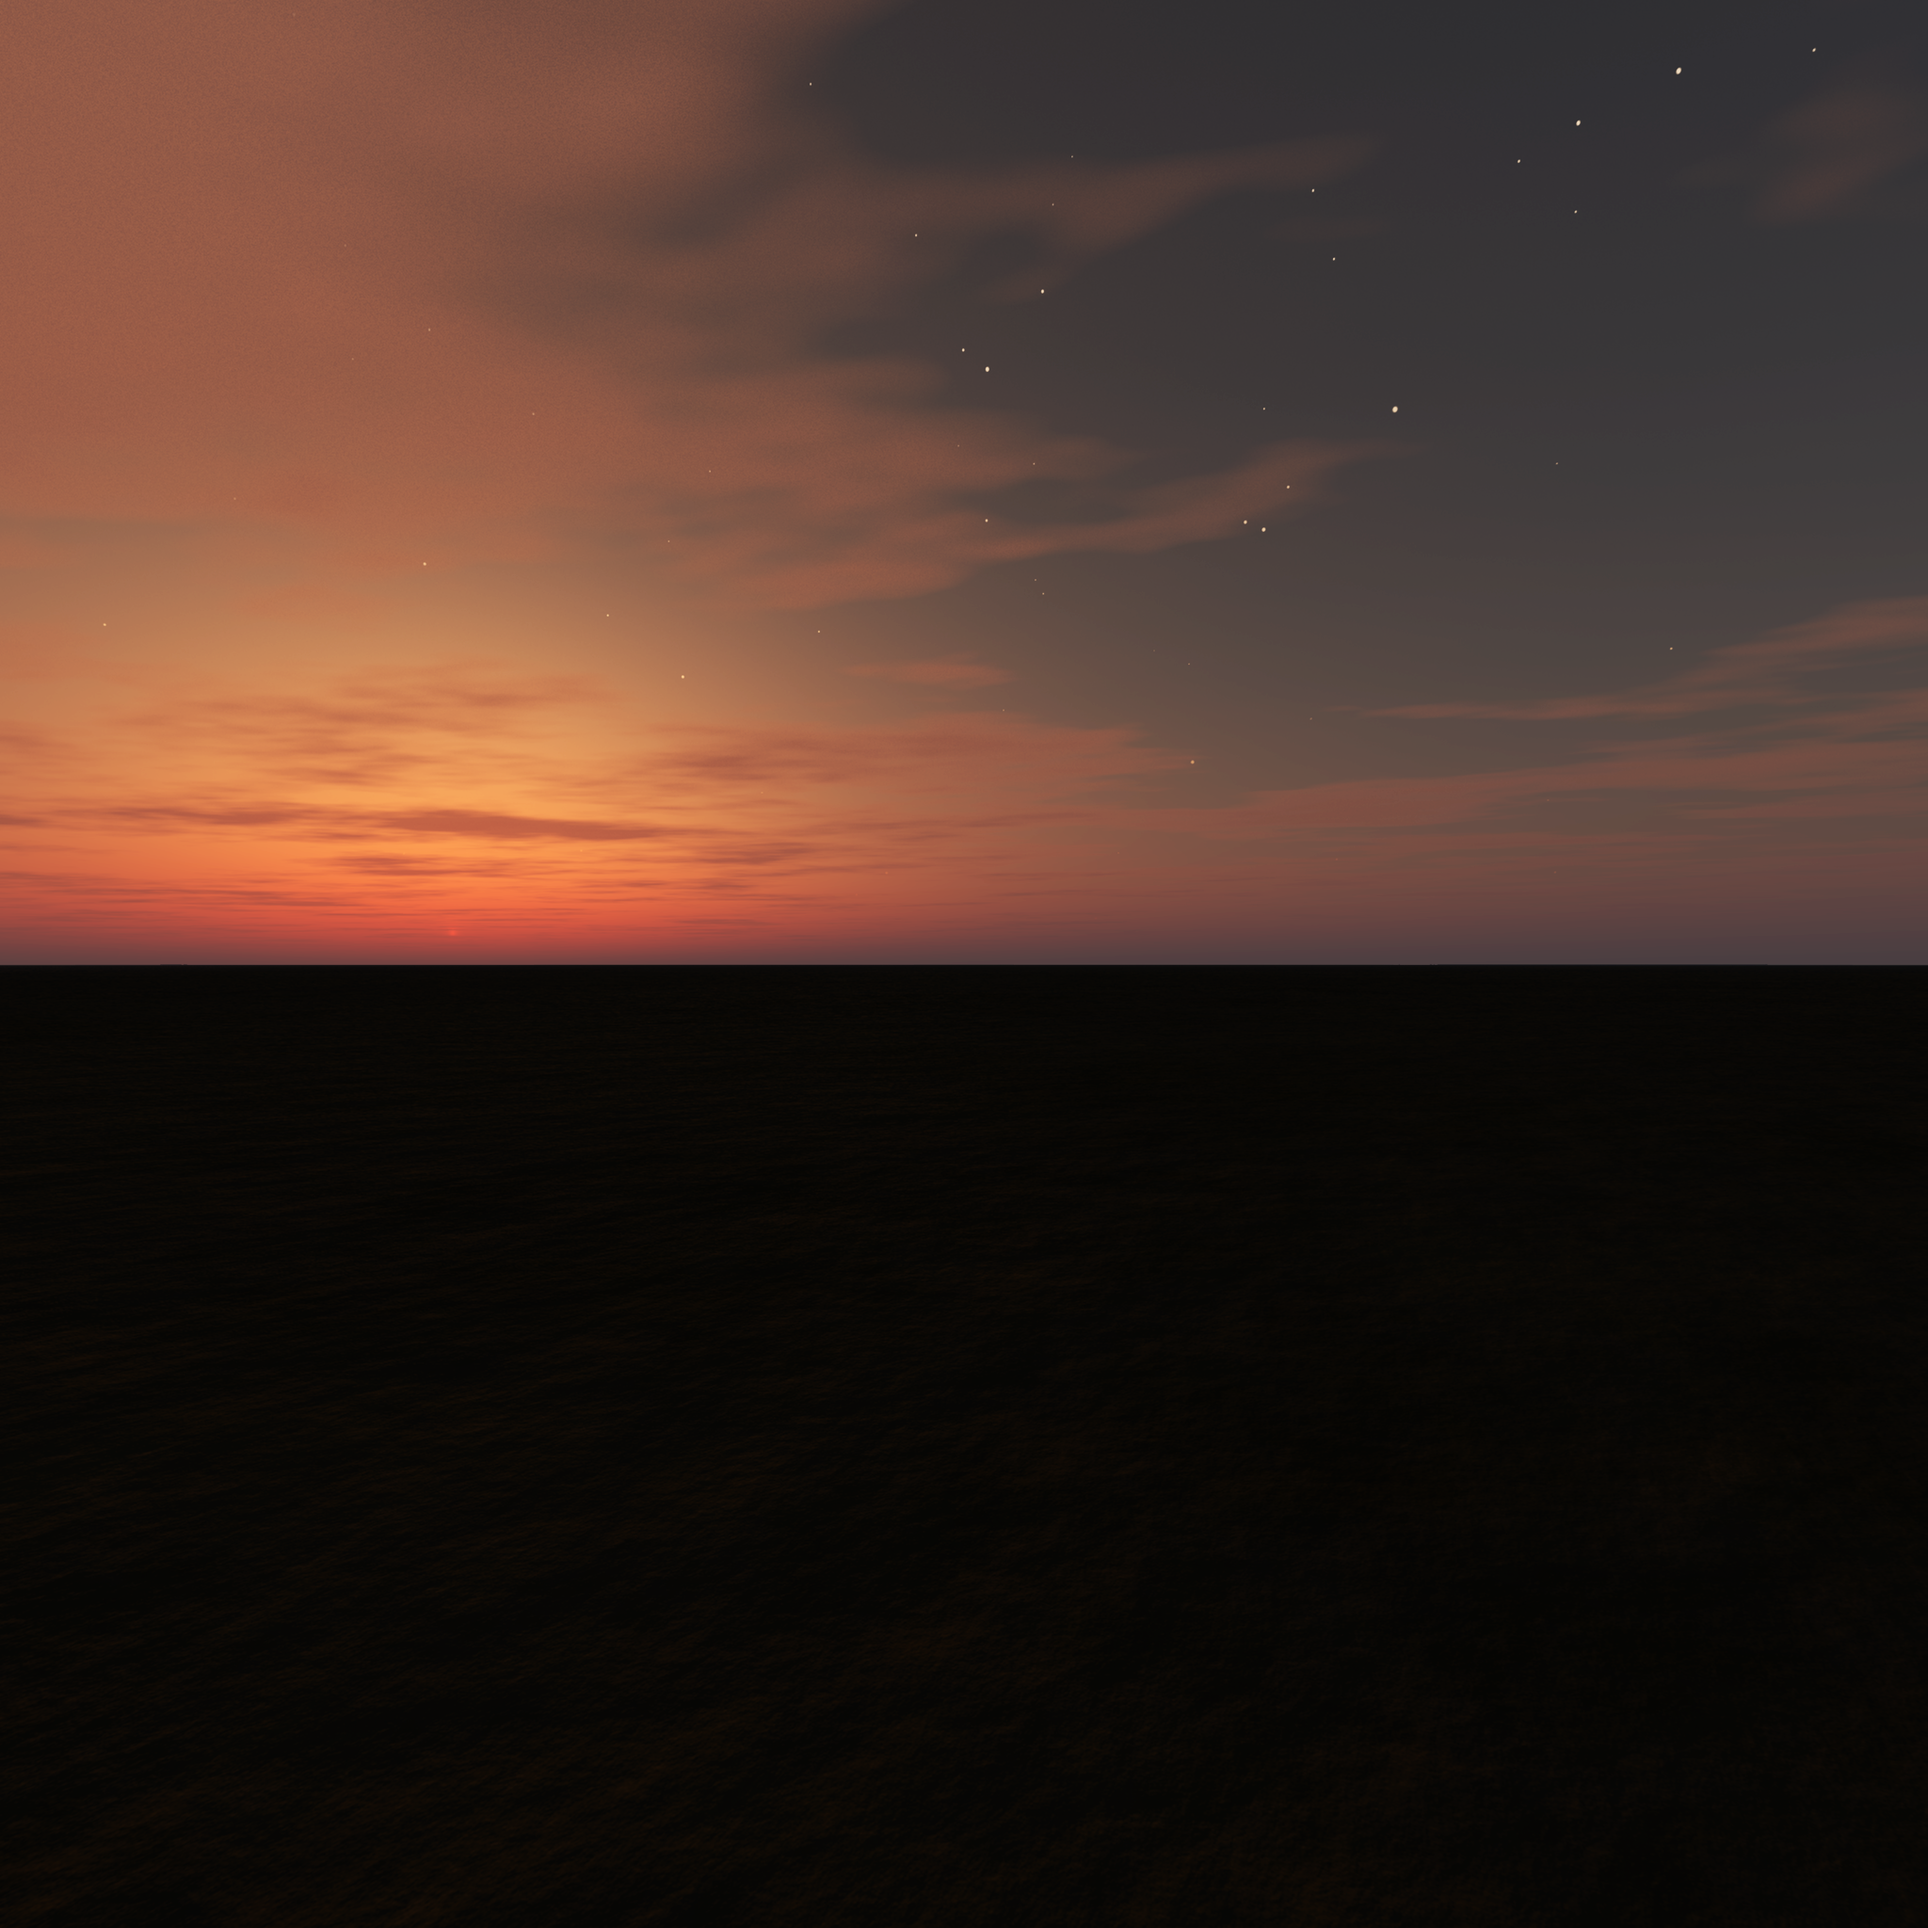
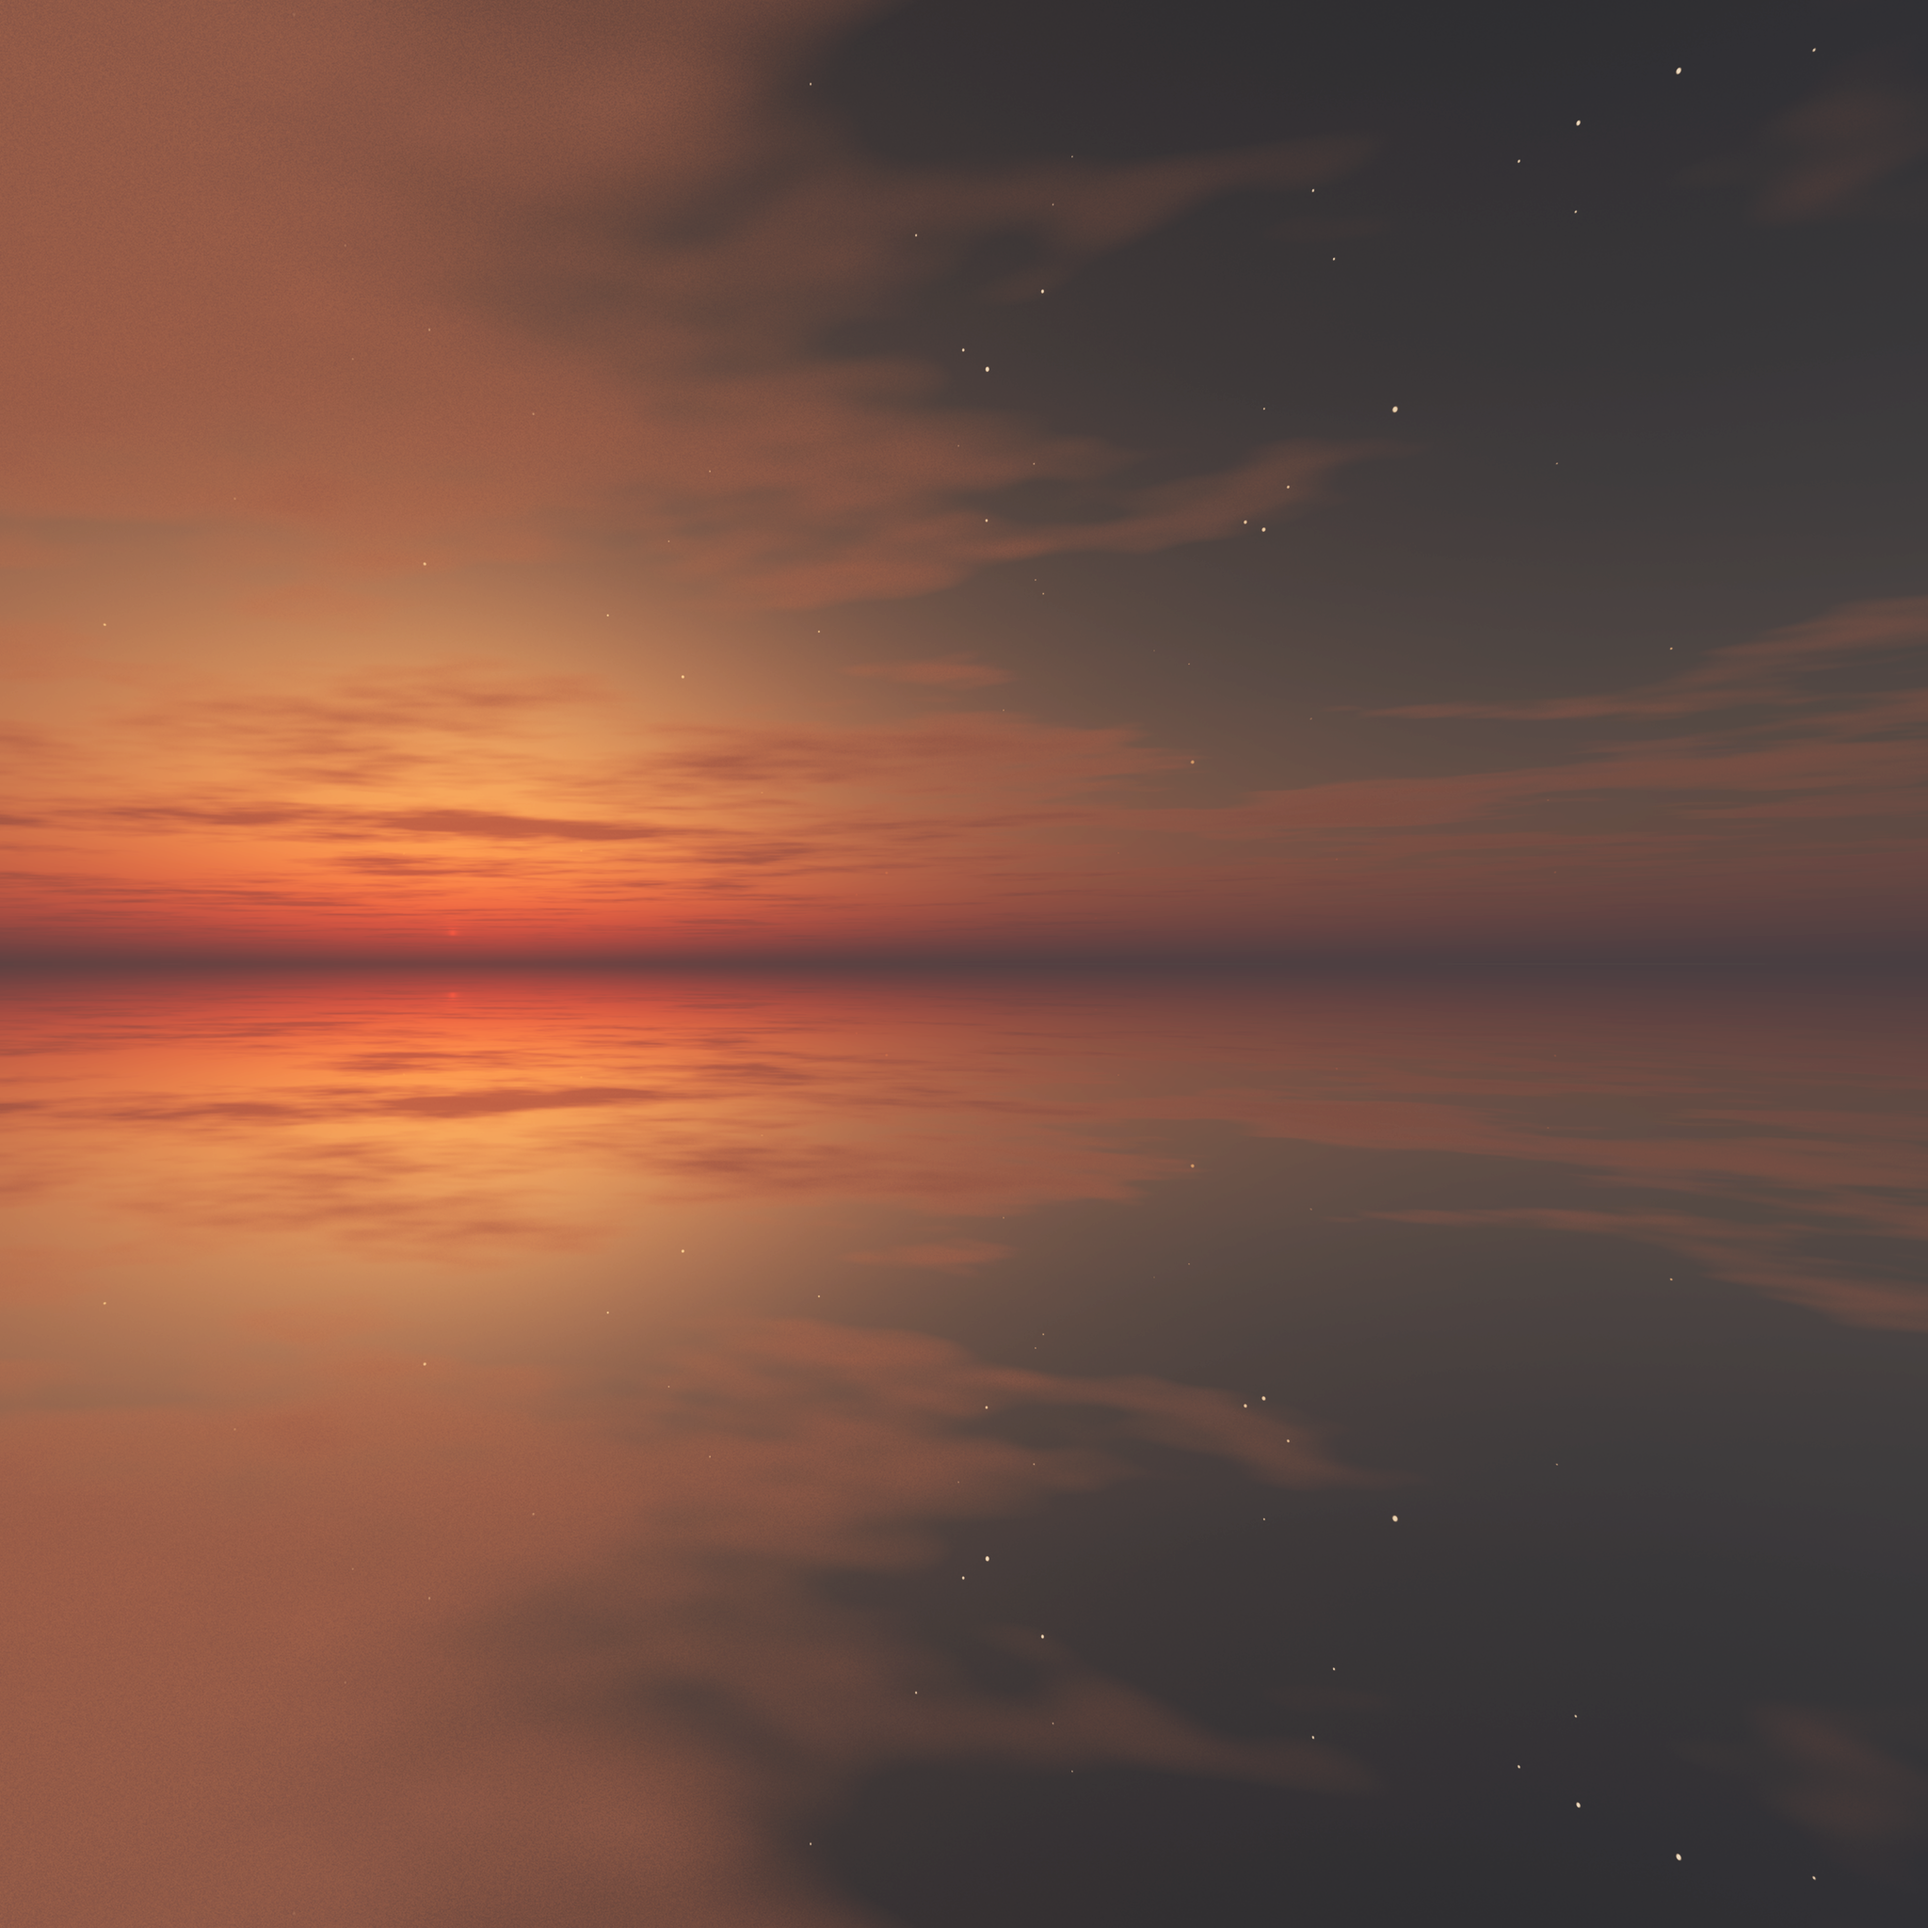
cast shadow for translucent amterial
cast shadow for translucent amterial

diff --git a/src/main.ts b/src/main.ts
@@ -17,10 +17,10 @@ import {LSystem} from './LSystem';
 // Define an object with application parameters and button callbacks
 const controls = {
    
-  SSR_MaxStep : 128,
+  SSR_MaxStep : 196,
   SSR_Opaque_Intensity : 0.2,
   SSR_Trans_Intensity : 0.2,
-  SSR_Threshold : 3.1,
+  SSR_Threshold : 2.0,
 
   Bloom_Iteration : 16,
   Bloom_Dispersal : 0.5,
@@ -411,7 +411,7 @@ function main() {
   const gui = new DAT.GUI();
 
   var SSR = gui.addFolder('SSR');  
-  SSR.add(controls, 'SSR_MaxStep', 16.0, 256.0).step(1);
+  SSR.add(controls, 'SSR_MaxStep', 16.0, 512.0).step(1);
   SSR.add(controls, 'SSR_Opaque_Intensity', 0.0, 1.0).step(0.01);
   SSR.add(controls, 'SSR_Trans_Intensity', 0.0, 1.0).step(0.01);
   SSR.add(controls, 'SSR_Threshold', 0.0, 10.0).step(0.1);
@@ -555,7 +555,7 @@ function main() {
 
 
   //let lightColor : vec4 = vec4.fromValues(1.0, 0.4, 0.05, 1.0);
-  let lightColor : vec4 = vec4.fromValues(1.0, 1.0, 1.0, 2.0);
+  let lightColor : vec4 = vec4.fromValues(1.0, 1.0, 1.0, 2.0); // this is for shadow complement
   let lightPosition : vec4 = vec4.fromValues(0.0, 0.0, 0.0, 1.0);
   let lightD : vec3 = vec3.create();
   vec3.normalize(lightD, vec3.fromValues(-0.53, 0.2, 1.0));
@@ -598,7 +598,8 @@ function main() {
       [LS, LS1, mesh1, mesh_B_Outter, mesh_B_Inner, mesh_Leaf, mesh_Bark, mesh_Leaf2, mesh_Bark2]);
     renderer.renderToShadowDepth(camera, standardShadowMapping, leafShadowMapping, barkShadowMapping, lightViewProj, 
       [LS, LS1, mesh1, mesh_B_Outter,  mesh_B_Inner, mesh_B_Glass, mesh_Leaf, mesh_Bark, mesh_Leaf2, mesh_Bark2]);
-    renderer.renderToTranslucent(camera, translucentDeferred, [ mesh_lake, mesh_B_Glass], skyCubeMap.cubemap_texture, lightColor, lightDirection);
+
+    renderer.renderToTranslucent(camera, translucentDeferred, [ mesh_lake, mesh_B_Glass], skyCubeMap.cubemap_texture, lightViewProj, lightColor, lightDirection);
 
     renderer.renderFromGBuffer(camera, skyCubeMap.cubemap_texture, lightViewProj, lightColor, lightDirection);
 

diff --git a/src/rendering/gl/OpenGLRenderer.ts b/src/rendering/gl/OpenGLRenderer.ts
@@ -536,7 +536,7 @@ HblurPass : PostProcess = new PostProcess(
     gl.bindFramebuffer(gl.FRAMEBUFFER, null);
   }
 
-  renderToTranslucent(camera: Camera, tProg: ShaderProgram, drawables: Array<Drawable>, skyCubeMap: WebGLTexture, lightColor : vec4, lightDir : vec4) {
+  renderToTranslucent(camera: Camera, tProg: ShaderProgram, drawables: Array<Drawable>, skyCubeMap: WebGLTexture, lightViewProjMat : mat4, lightColor : vec4, lightDir : vec4) {
     gl.bindFramebuffer(gl.FRAMEBUFFER, this.tBuffer);
 
     gl.viewport(0, 0, gl.drawingBufferWidth, gl.drawingBufferHeight);
@@ -563,6 +563,9 @@ HblurPass : PostProcess = new PostProcess(
     tProg.setProjMatrix(proj);
     tProg.setInvViewProjMatrix(camera.invViewProjectionMatrix);
     tProg.setCameraWPos(camera.position);
+
+    tProg.setShadowMap(this.post32Targets[PipelineEnum.ShadowPass]);
+    tProg.setLightViewProjMatrix(lightViewProjMat);
 
     tProg.setTime(this.currentTime);
 
